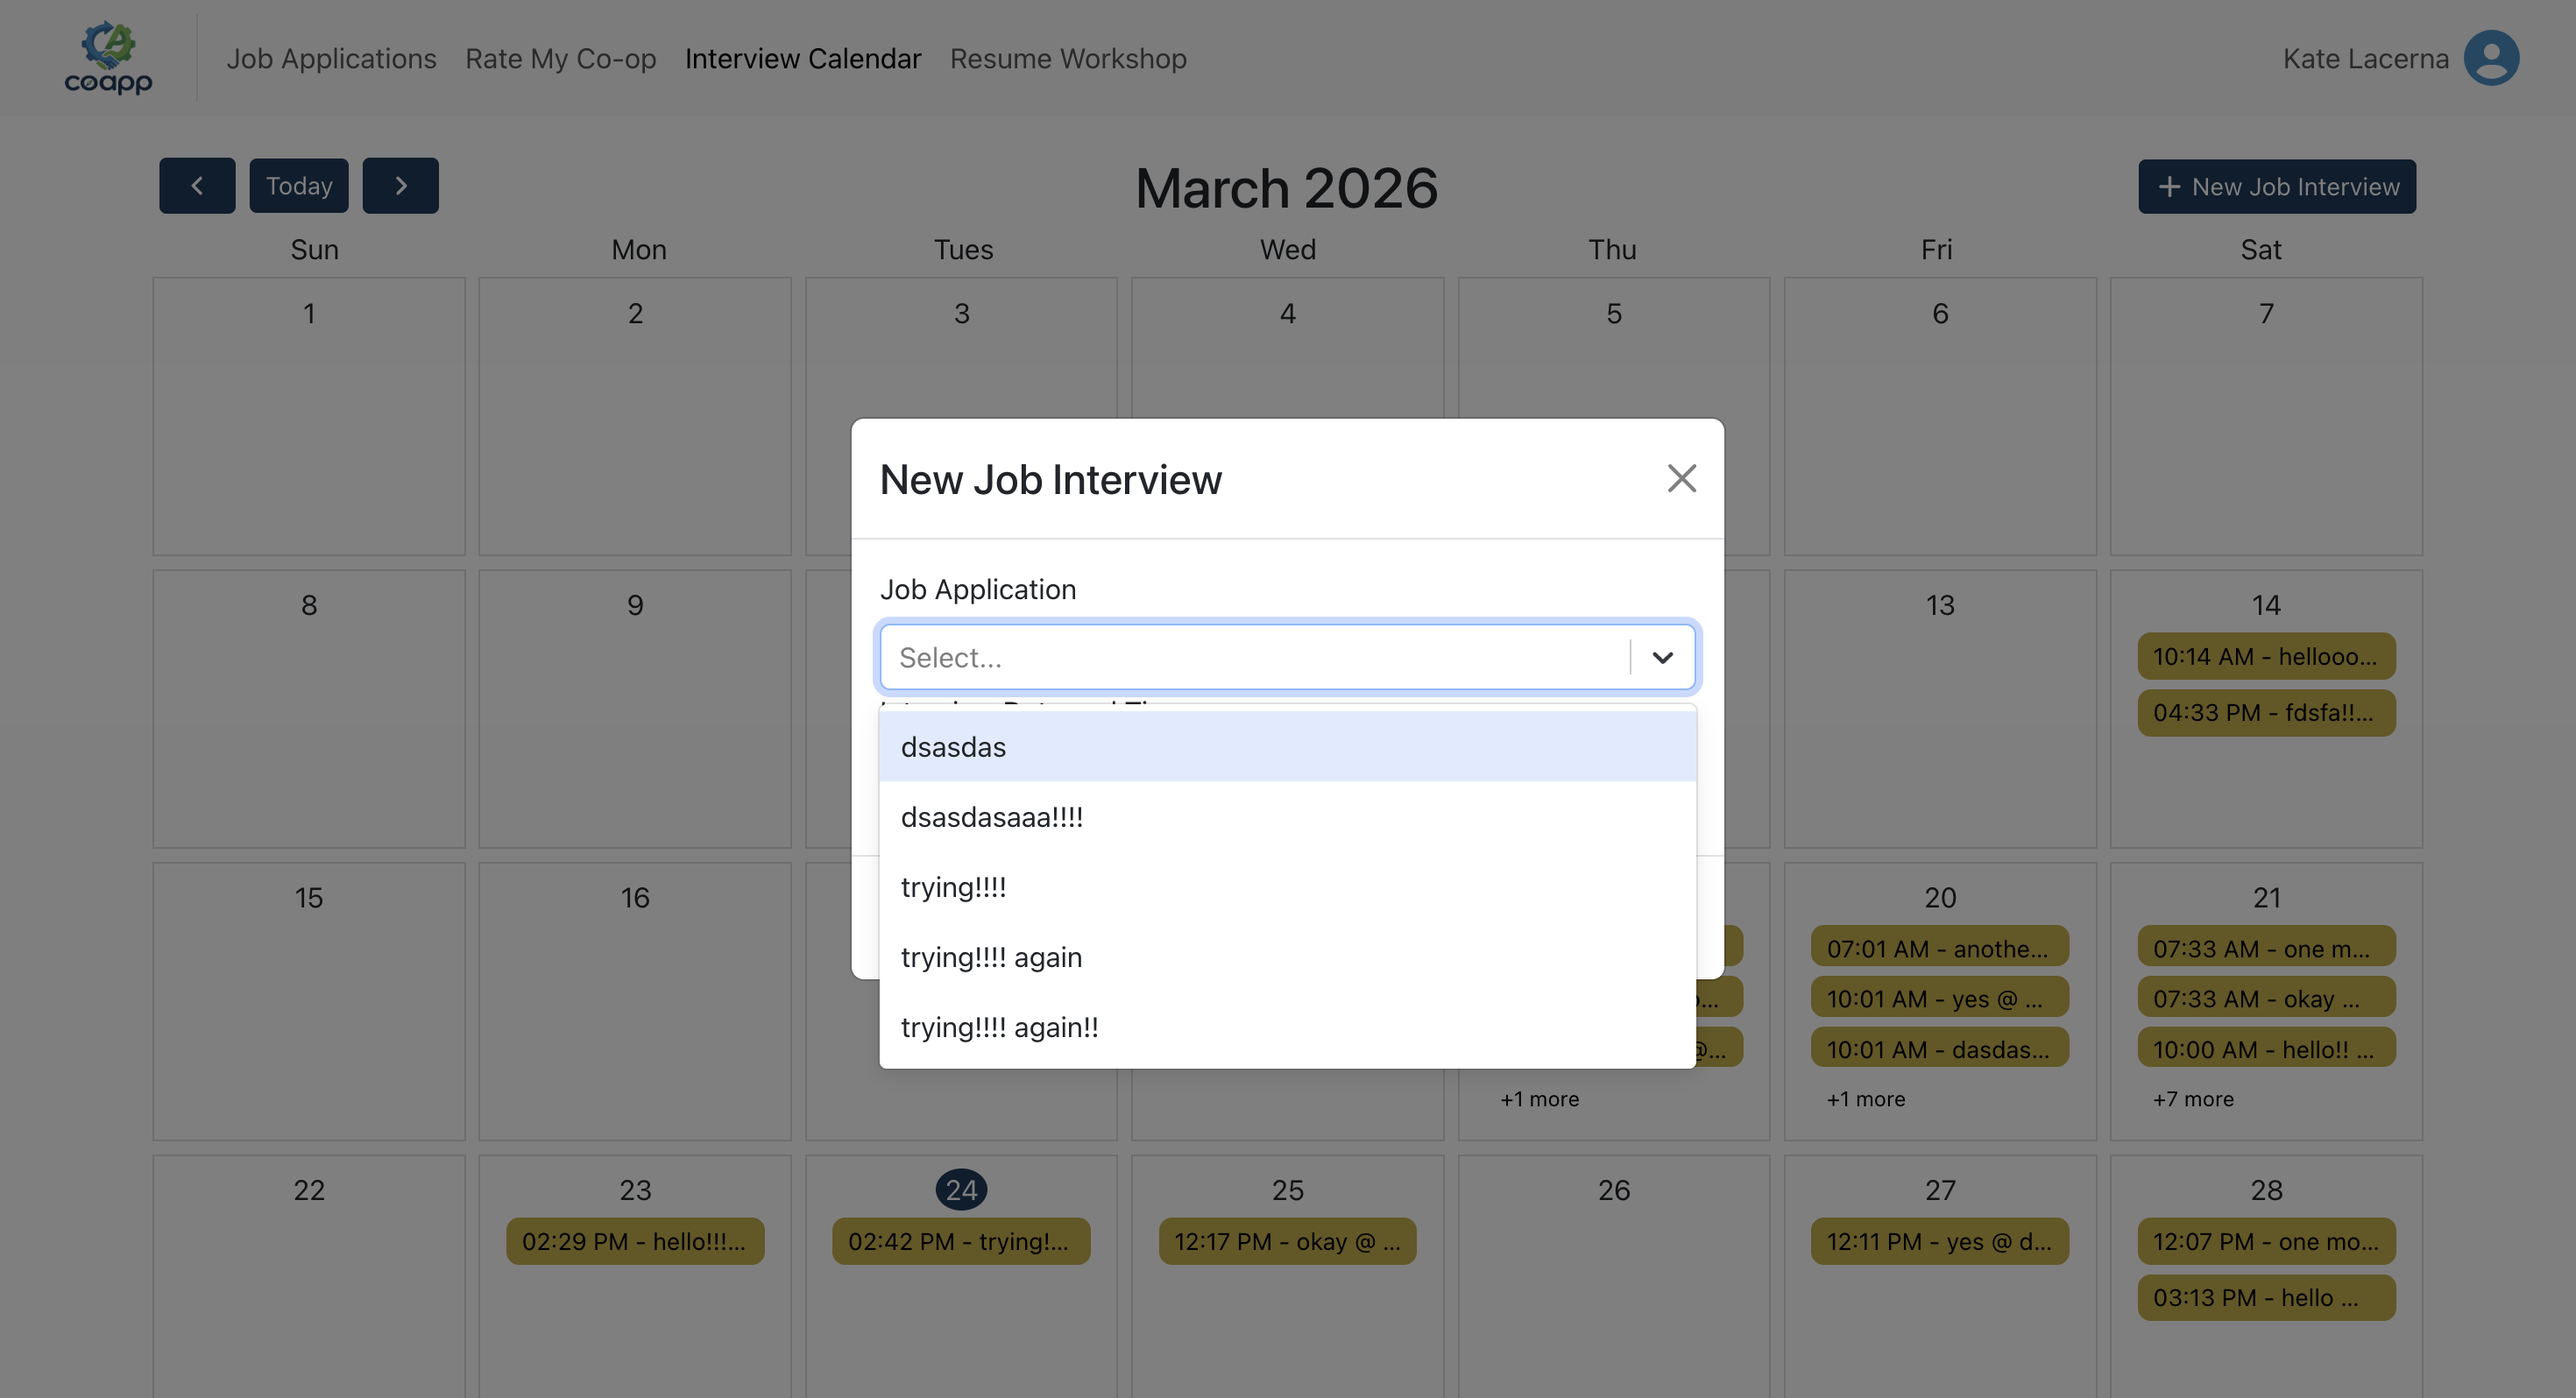
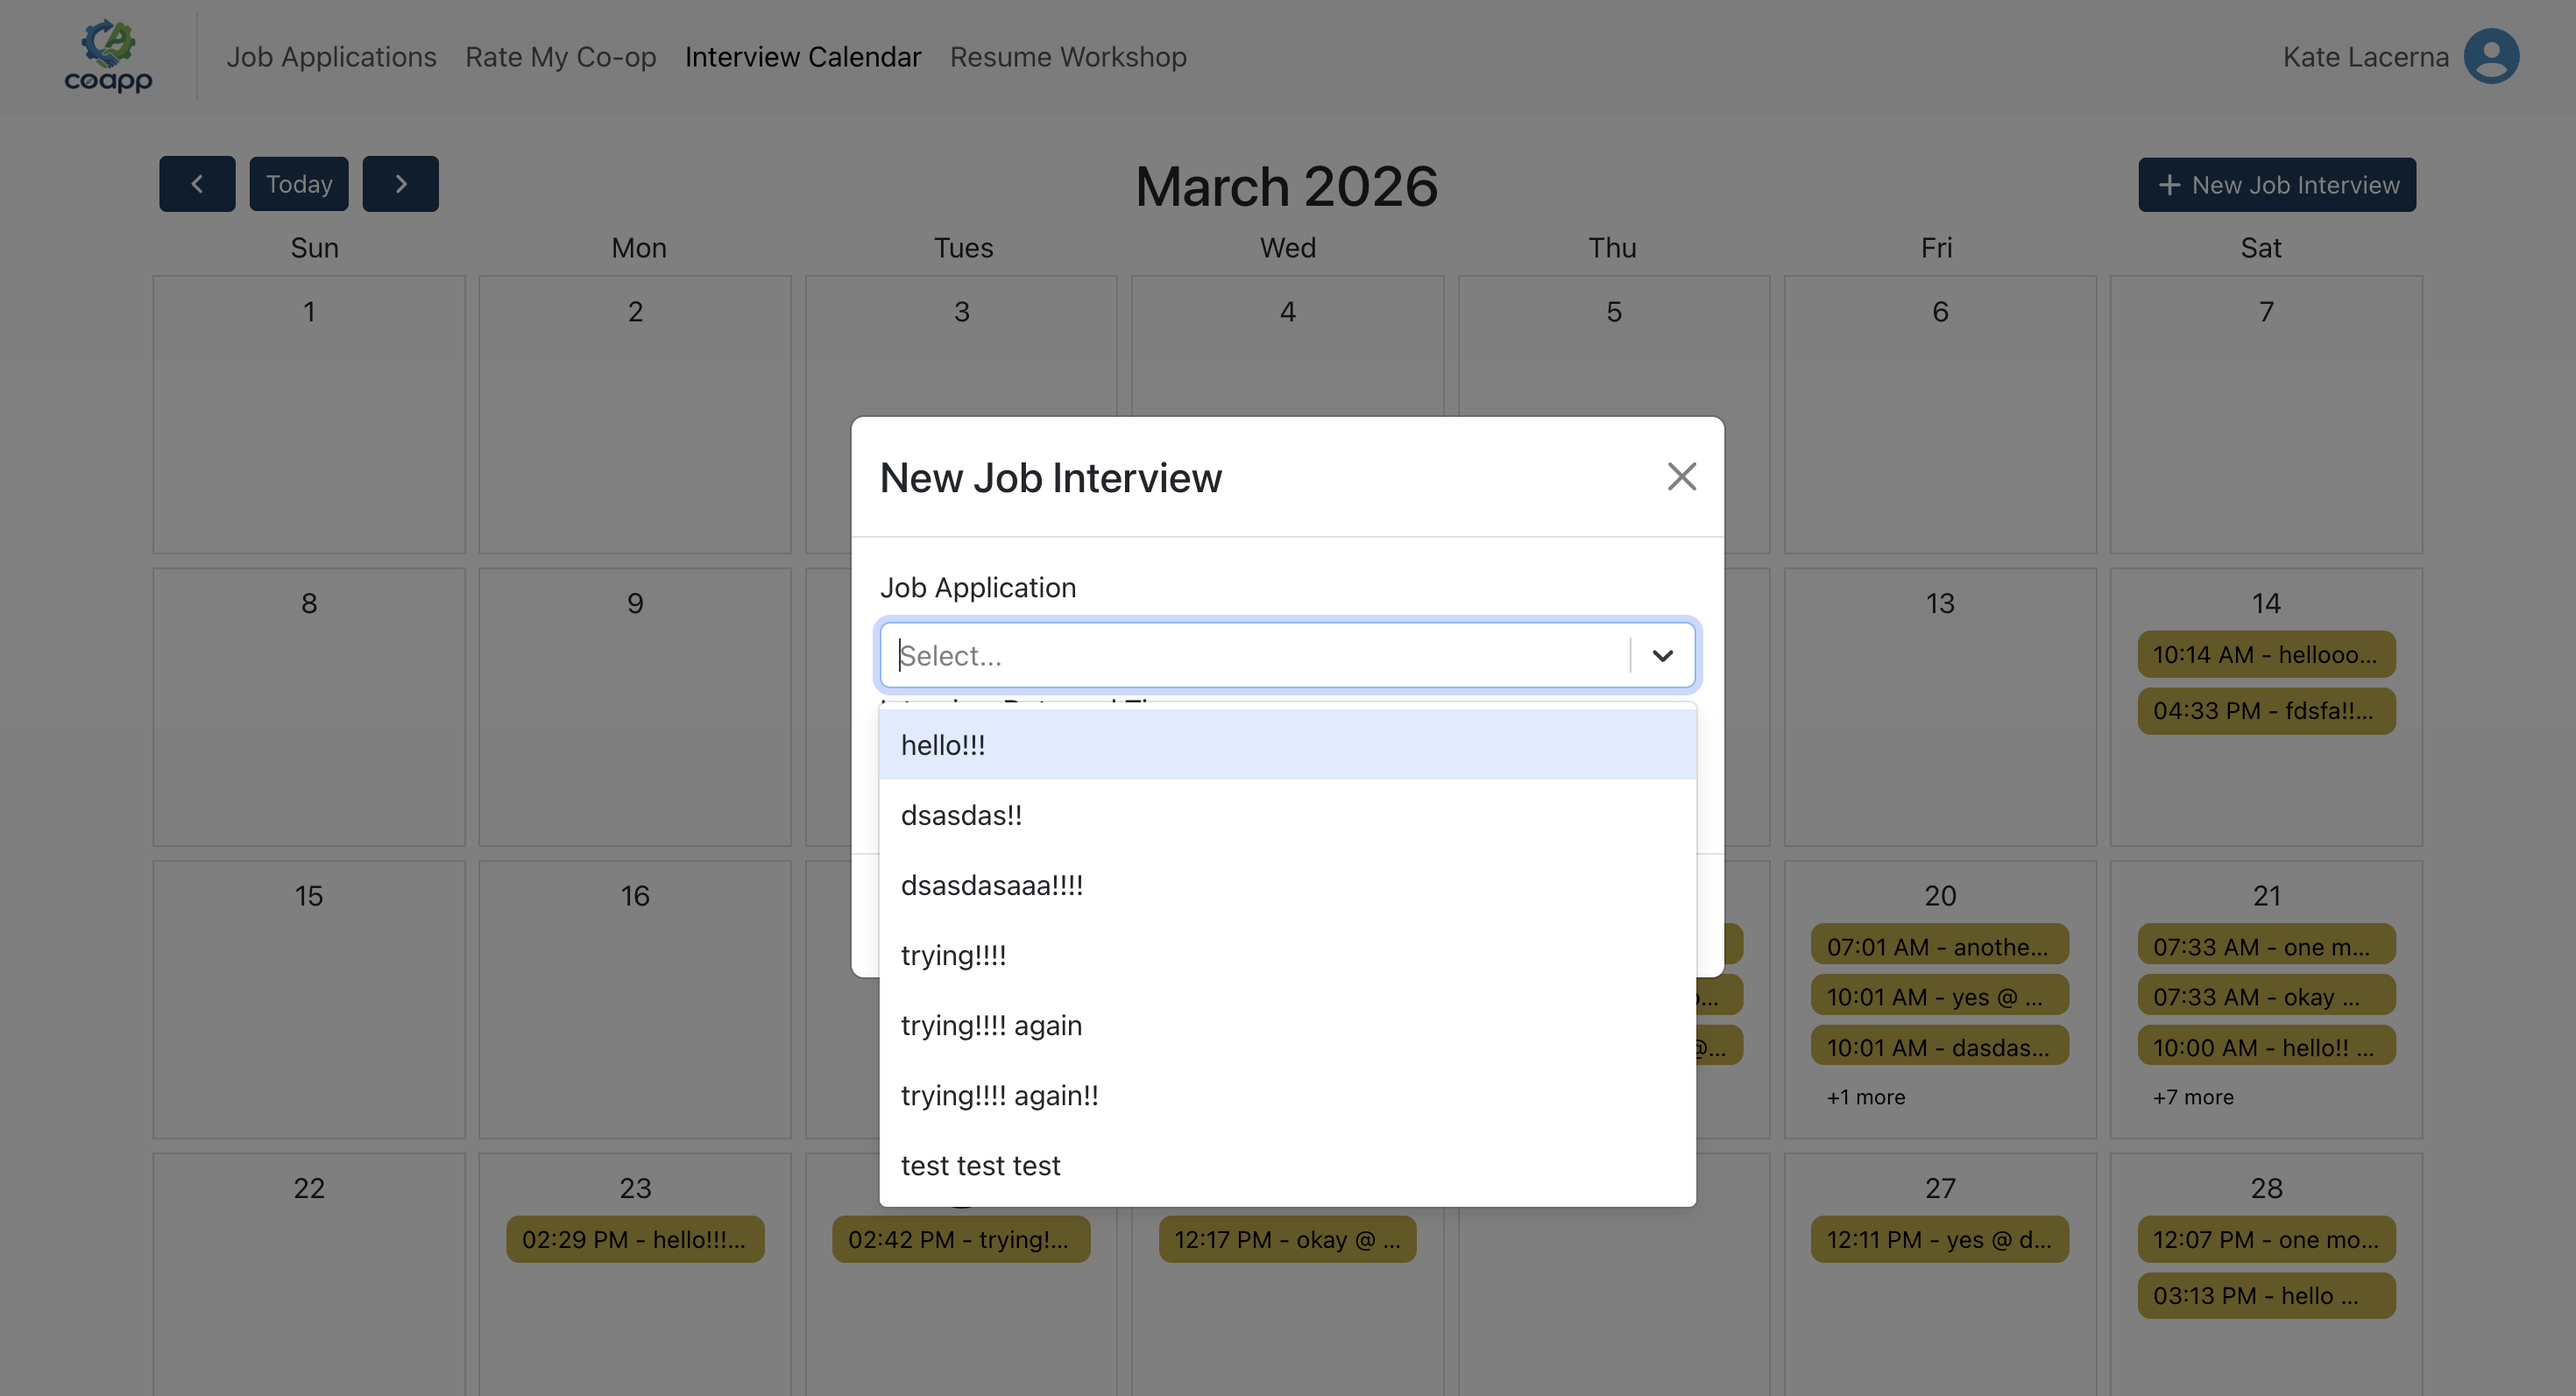
Completed acceptance tests for logging interview dates

diff --git a/docs/acceptanceTests/feature5/feature5.md b/docs/acceptanceTests/feature5/feature5.md
@@ -17,10 +17,23 @@ then they should be redirected back to the *Interview Calendar* page.
 If the user clicks *Submit* without filling in the necessary details, they will be shown errors. 
 ![image](newForm-2.png)
 
-If the user clicks on the *Job Application* field, a dropdown menu containing all the job titles of applications that are in any of the following stages: NOT APPLIED, APPLIED, and INTERVIEW SCHEDULED. 
+If the user clicks on the *Job Application* field, a dropdown menu containing all the job titles of applications that are in either NOT APPLIED or APPLIED stage show up. 
 ![image](newForm-3.png)
 
+Once the user selects an application from the dropdown, the value in the *Job Application* field gets replaced with the job title followed by the company that the application is for. 
+![image](newForm-4.png)
 
+Clicking *Submit* at this point should display an error. 
+![image](newForm-5.png)
+
+If the user clicks on the *Interview Date and Time* field, a date and time picker should pop up.
+![image](newForm-6.png)
+
+Once all the necessary fields are filled in and the user clicks *Submit*, the fields should all appear disabled, with a loading spinner displayed in the *Submit* button.
+![image](newForm-7.png)
+
+Once the new interview has been successfully added, they should be redirected to the *Interview Calendar* page and the new interview should be displayed. 
+![image](newForm-8.png)
 
 
 ## Monthly Calendar View
